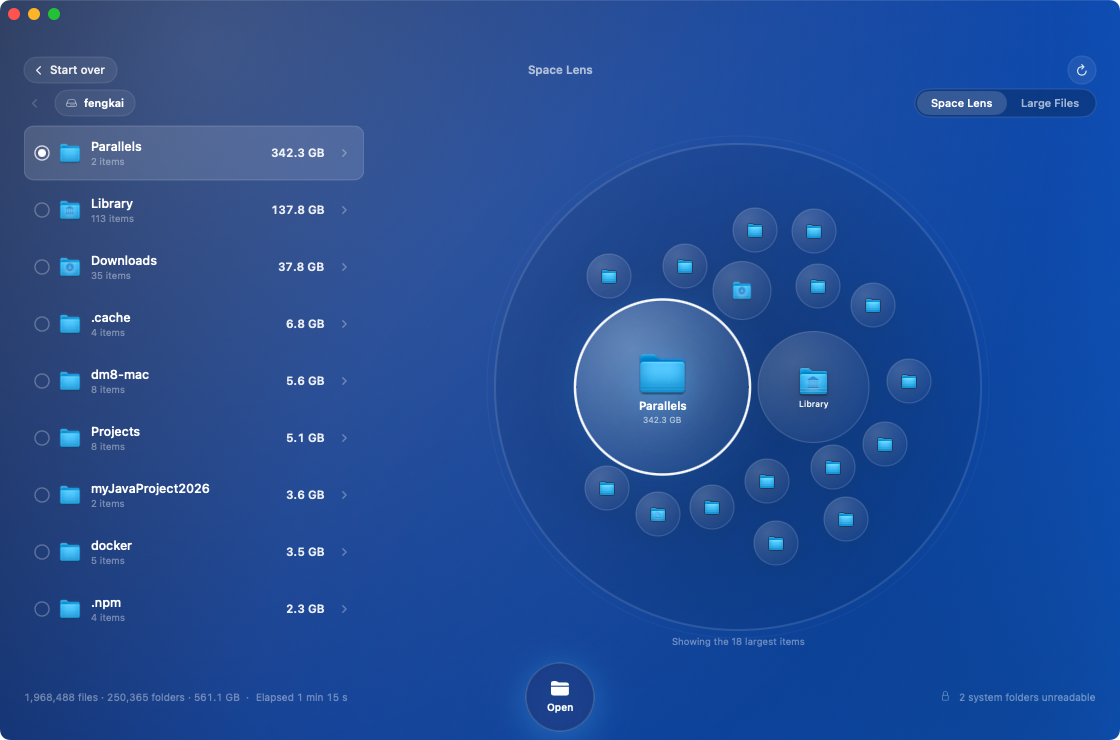
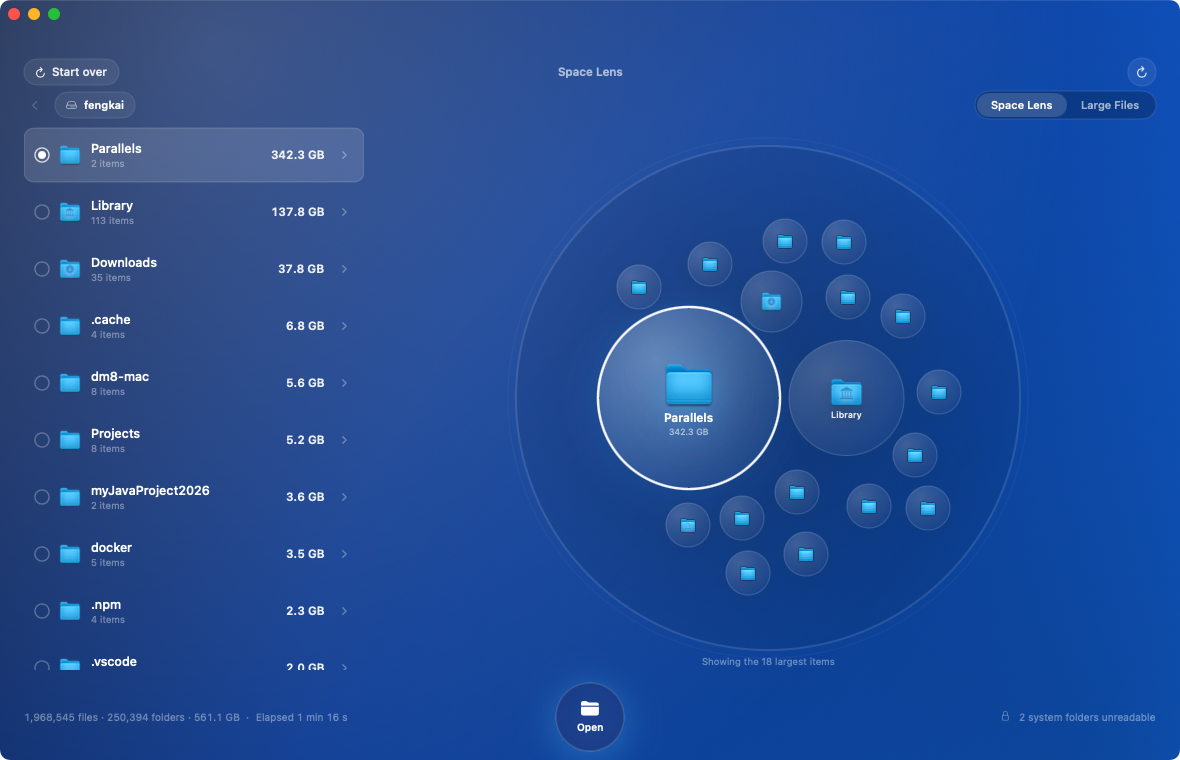
Fix Start over: rescan at the root, navigate up when nested

diff --git a/DiskScope/ContentView.swift b/DiskScope/ContentView.swift
@@ -442,6 +442,10 @@ private struct ResultsView: View {
         entries.first { $0.id == selectedID }
     }
 
+    private var isAtRoot: Bool {
+        store.breadcrumb.count <= 1
+    }
+
     var body: some View {
         VStack(spacing: 0) {
             topBar
@@ -475,22 +479,18 @@ private struct ResultsView: View {
             ZStack {
                 HStack {
                     Button {
-                        store.go(to: 0)
+                        store.restart()
                     } label: {
                         HStack(spacing: 6) {
-                            Image(systemName: "chevron.left")
+                            Image(systemName: isAtRoot ? "arrow.clockwise" : "chevron.left")
                                 .font(.system(size: 10, weight: .semibold))
                             Text("lens.restart")
                                 .font(.system(size: 11.5, weight: .medium))
                         }
                         .foregroundStyle(.white.opacity(0.9))
-                        .padding(.horizontal, 11)
-                        .padding(.vertical, 6)
-                        .background(Capsule().fill(Color.white.opacity(0.07)))
-                        .overlay(Capsule().stroke(Theme.hairline, lineWidth: 1))
                     }
-                    .buttonStyle(.plain)
-                    .help(L10n.t("help.restart"))
+                    .buttonStyle(GlassCapsuleButtonStyle())
+                    .help(isAtRoot ? L10n.t("help.rescan") : L10n.t("help.restart"))
 
                     Spacer()
 
@@ -511,10 +511,11 @@ private struct ResultsView: View {
                 Text("lens.title")
                     .font(.system(size: 11.5, weight: .semibold))
                     .foregroundStyle(Theme.secondary)
+                    .allowsHitTesting(false)
             }
             .padding(.horizontal, 24)
-            .padding(.top, 28)
-            .frame(height: 56)
+            .padding(.top, 30)
+            .frame(height: 58)
 
             HStack(spacing: 9) {
                 Button {

diff --git a/DiskScope/Theme.swift b/DiskScope/Theme.swift
@@ -58,6 +58,26 @@ extension View {
     }
 }
 
+struct GlassCapsuleButtonStyle: ButtonStyle {
+    var horizontalPadding: CGFloat = 11
+    var verticalPadding: CGFloat = 6
+
+    func makeBody(configuration: Configuration) -> some View {
+        configuration.label
+            .padding(.horizontal, horizontalPadding)
+            .padding(.vertical, verticalPadding)
+            .background(
+                Capsule().fill(Color.white.opacity(configuration.isPressed ? 0.18 : 0.07))
+            )
+            .overlay(
+                Capsule().stroke(Theme.hairline, lineWidth: 1)
+            )
+            .scaleEffect(configuration.isPressed ? 0.96 : 1)
+            .animation(.easeOut(duration: 0.12), value: configuration.isPressed)
+            .contentShape(Capsule())
+    }
+}
+
 struct ViewSwitcher: View {
     @Binding var selection: Int
 

diff --git a/DiskScope/ScanStore.swift b/DiskScope/ScanStore.swift
@@ -61,6 +61,16 @@ final class ScanStore: ObservableObject {
         startScan(path: path, displayName: (path as NSString).lastPathComponent)
     }
 
+    /// "Start over": go back to the scan root, or start a fresh scan when
+    /// already there.
+    func restart() {
+        if breadcrumb.count > 1 {
+            go(to: 0)
+        } else {
+            rescan()
+        }
+    }
+
     func rescan() {
         guard let summary else { return }
         startScan(

diff --git a/DiskScope/DiskScopeApp.swift b/DiskScope/DiskScopeApp.swift
@@ -22,6 +22,13 @@ struct DiskScopeApp: App {
                     store.chooseFolder()
                 }
                 .keyboardShortcut("o", modifiers: .command)
+
+                Divider()
+
+                Button("lens.restart") {
+                    store.restart()
+                }
+                .keyboardShortcut("r", modifiers: [.command, .shift])
             }
         }
     }

diff --git a/CHANGELOG.md b/CHANGELOG.md
@@ -12,4 +12,5 @@ Initial public release.
 - Allocated-size accounting, hard-link deduplication and mount-point skipping
 - Full Disk Access detection and guidance
 - English, Simplified Chinese and Traditional Chinese localization
+- "Start over" returns to the top level, or starts a fresh scan when already there
 - DMG packaging script, GitHub Actions build and MIT license
